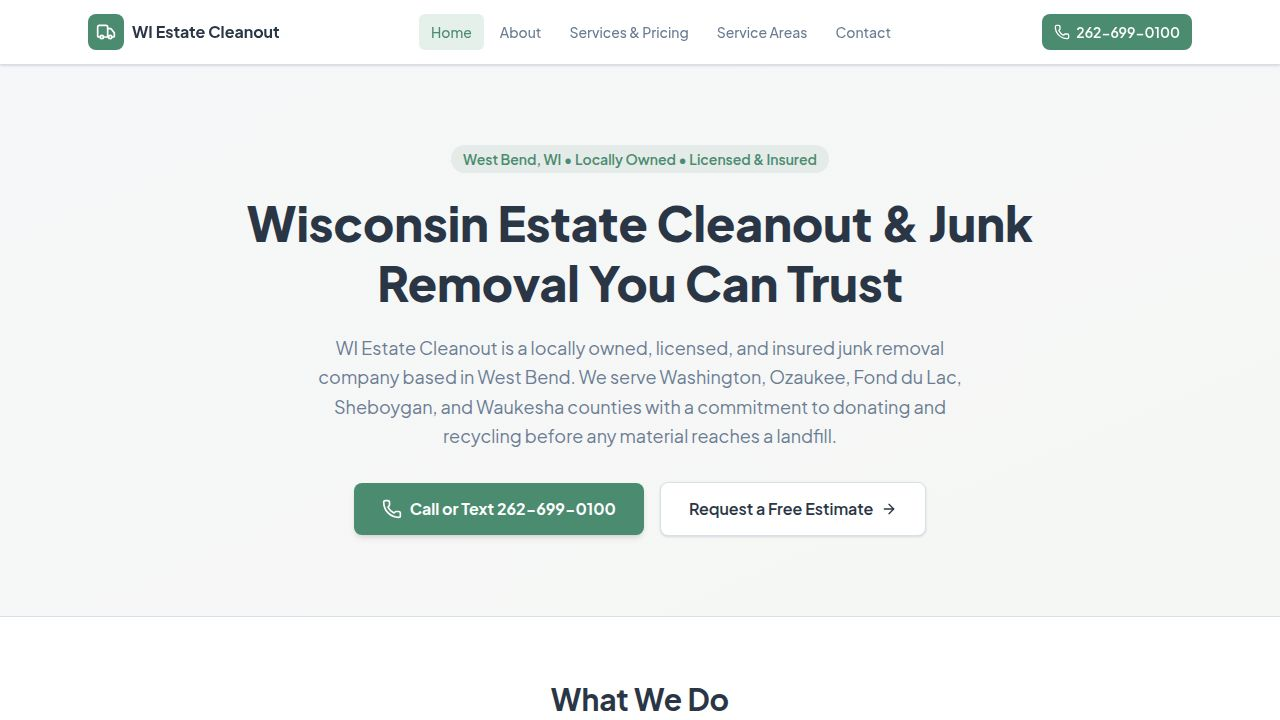
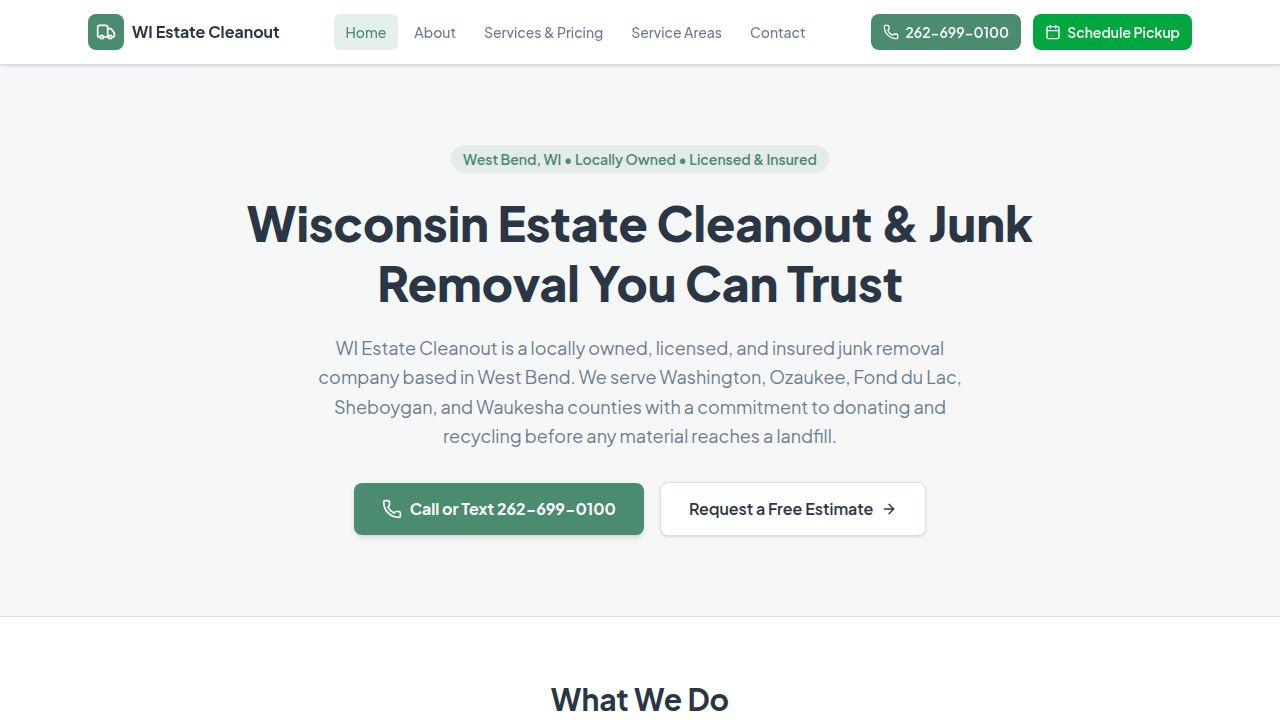
Add 'Schedule Pickup' button to WI Estate Cleanout header
Task: Add a visible booking CTA to the WI Estate Cleanout site header so customers can book from any page.

Changes:
- Added a JOBBER_URL constant at the top of Layout.tsx for the Jobber request form URL (https://clienthub.getjobber.com/hubs/70ad09c0-29e5-4b3f-b648-6642ff3dff80/public/requests/4351309/new)
- Added a green "Schedule Pickup" button with a Calendar icon in the desktop header, appearing to the right of the phone number (hidden on mobile breakpoints)
- Added a full-width green "Schedule Pickup" button at the bottom of the mobile hamburger menu, below the phone number link
- Both buttons open the Jobber form in a new tab (target="_blank" with rel="noopener noreferrer")
- Added data-testid attributes: link-schedule-pickup-header and link-schedule-pickup-mobile for testability

No deviations from task scope. The button label uses "Schedule Pickup" as specified.

Replit-Task-Id: 2183ced7-a46a-4fc9-9b2c-7f1090b20128

Changed region(s): [[0.6562, 0.0, 0.9375, 0.0917], [0.25, 0.0, 0.625, 0.0917]]

diff --git a/artifacts/wi-estate-cleanout/src/components/Layout.tsx b/artifacts/wi-estate-cleanout/src/components/Layout.tsx
@@ -1,6 +1,9 @@
 import { useState } from "react";
 import { Link, useLocation } from "wouter";
-import { Phone, Menu, X, Truck } from "lucide-react";
+import { Phone, Menu, X, Truck, Calendar } from "lucide-react";
+
+const JOBBER_URL =
+  "https://clienthub.getjobber.com/hubs/70ad09c0-29e5-4b3f-b648-6642ff3dff80/public/requests/4351309/new";
 
 const navLinks = [
   { label: "Home", href: "/" },
@@ -55,6 +58,16 @@ function Header() {
               <Phone className="w-4 h-4" />
               262-699-0100
             </a>
+            <a
+              href={JOBBER_URL}
+              target="_blank"
+              rel="noopener noreferrer"
+              data-testid="link-schedule-pickup-header"
+              className="hidden md:flex items-center gap-1.5 bg-green-600 text-white px-3 py-2 rounded-lg text-sm font-semibold hover:bg-green-700 transition-colors"
+            >
+              <Calendar className="w-4 h-4" />
+              Schedule Pickup
+            </a>
             <button
               className="md:hidden p-2 rounded-md text-muted-foreground hover:text-foreground hover:bg-muted transition-colors"
               onClick={() => setOpen(!open)}
@@ -90,6 +103,16 @@ function Header() {
             >
               <Phone className="w-4 h-4" />
               262-699-0100
+            </a>
+            <a
+              href={JOBBER_URL}
+              target="_blank"
+              rel="noopener noreferrer"
+              data-testid="link-schedule-pickup-mobile"
+              className="flex items-center gap-1.5 mx-3 mt-2 px-3 py-2.5 bg-green-600 text-white rounded-lg text-sm font-semibold hover:bg-green-700 transition-colors justify-center"
+            >
+              <Calendar className="w-4 h-4" />
+              Schedule Pickup
             </a>
           </div>
         )}
